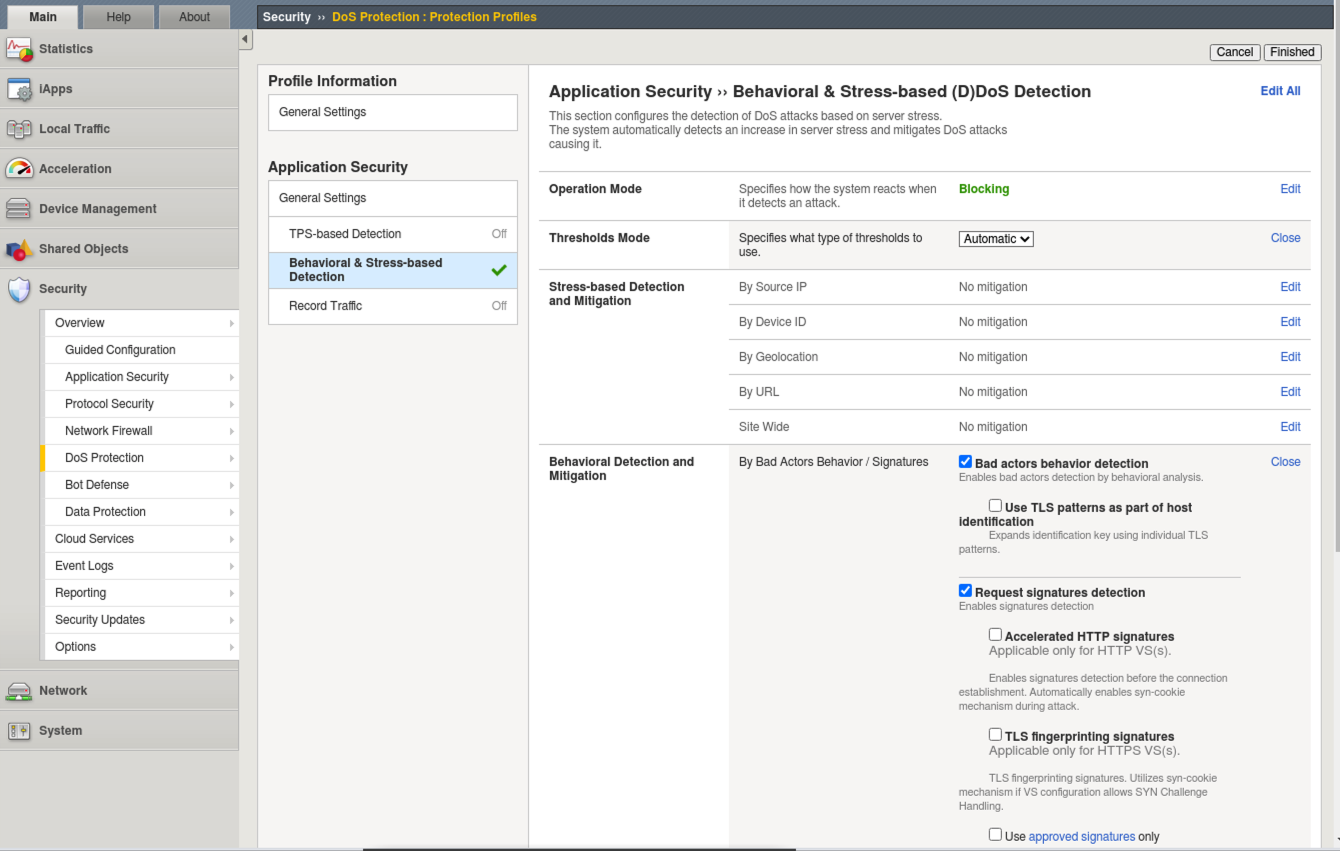
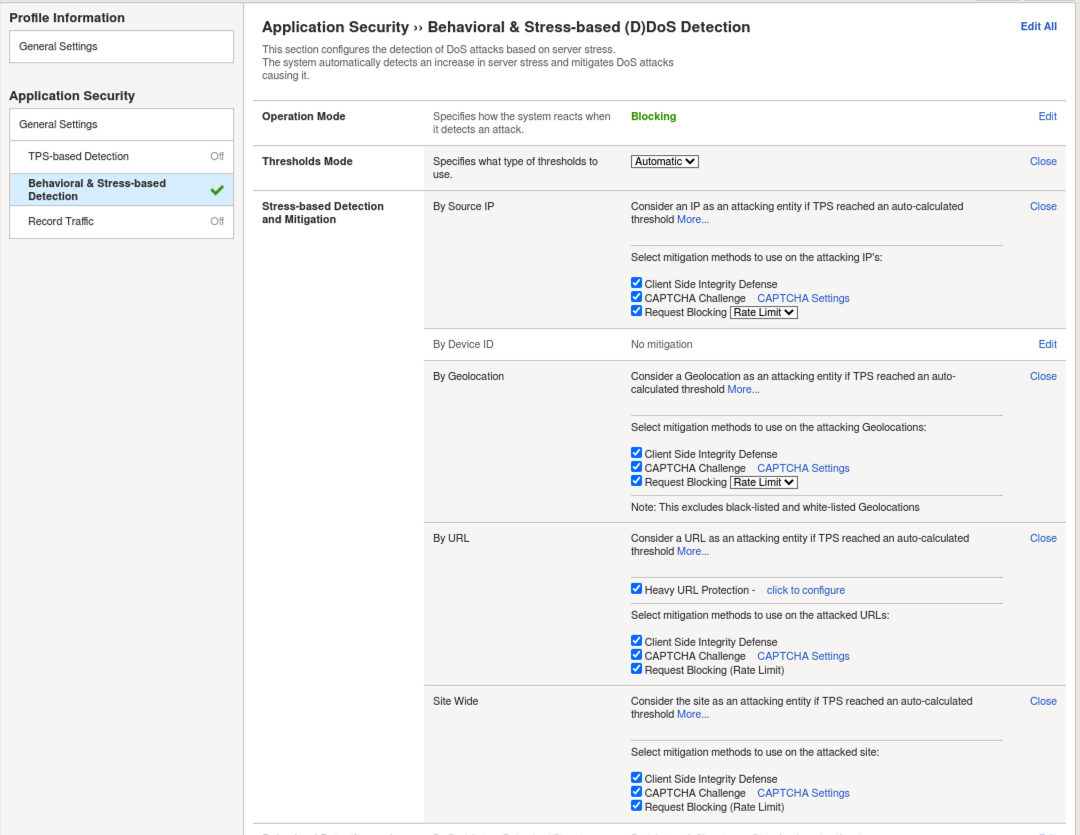
general updates

diff --git a/docs/waf241/module3 - l7 dos/lab1/lab1.rst b/docs/waf241/module3 - l7 dos/lab1/lab1.rst
@@ -1,28 +1,135 @@
 Lab 3: Behavioral DOS Protection
 ----------------------------------
 
-In this lab you will run traffic generation scripts as well as attacks against a Virtual Server in order to trigger Behavioral DoS Protection.
+In this lab you will use a baseline traffic generation script and an Apache Bench based attack script against a Virtual Server in both unprotected and protected mode in order to trigger Behavioral DoS Protection. **Unlimited Behavioral Dos protection profiles are a feature of Advanced WAF**.
 
 
-Create the DoS Profile
-~~~~~~~~~~~~~~~~~~~~~~~
+Test Default Site Behavior
+~~~~~~~~~~~~~~~~~~~~~~~~~~~
+#. Navigate to **Local Traffic > Virtual Servers > owasp-juiceshop_443_vs > Security > Policies**. 
+#. **Disable** all Policies and Logging Profiles so that we can effectively demonstrate just the DoS mitigation.  
+#. Click **Update**.
+
+Your Virtual Server should look like this:
+
+.. image:: images/dos_vs.png
+  :width: 600 px
+
+4. Open a new **Terminal** window and run the **baseline_menu.sh** script in the **Agility2021wafTools** directory.
+
+    .. code-block:: bash
+
+        cd ~/Agility2021wafTools/
+        ./baseline_menu.sh
+    ..
+
+5. Choose **Option 1** and hit the **Return Key or Enter key**. 
+6. You will see the script start sending traffic to site and you should see all responses with an http code of **status: 200**.
+
+.. image:: images/status.png
+  :width: 600 px
+
+7. While the script is still running, open a new browser tab and click on the **OWASP Juice Shop** bookmark. 
+8. Browse around the site and you should not feel any lag in response time. Everything should be loading quickly in the browser even with the baseline script running in the background.
+
+Start the Attack
+~~~~~~~~~~~~~~~~~~~~
+
+#. Open a new **Terminal** tab and ensure you are in the **~/Agility2021wafTools/** directory and run the AB_SSL_DOS.sh script.
+
+    .. code-block:: bash
+
+        cd ~/Agility2021wafTools/
+        ./AB_SSL_DOS.sh
+    ..
+
+2. Choose **Option 1** and hit the **Return Key or Enter key**. 
+3. Back in Chrome browser, attempt to refresh the site. **There are no smoke and mirrors here.** The Apache Bench script almost instantly knocked this single container site offline. If it isn't offline, then it horribly slow and un-usable. **There was no special configuration on the server side.**
+4. Stop the Apache Bench script by hitting (Ctrl + C) and then type the # **4** and hit the **Return Key or Enter key**.
+5. **Leave the baseline_menu script running**. 
+
+**Questions**: What do you do when you are shopping online and a site is behaving like this? Do you think attackers and/or competing entities ever use this to their advantage?
+
+Advanced WAF to the Rescue
+~~~~~~~~~~~~~~~~~~~~~~~~~~~~~
 
 #. Navigate to **Security > DoS Protection > Protection Profiles** and click **Create**.
 #. Name the profile **juiceshop_dos** and click **Behavioral & Stress-based Detection** to the left. 
 #. Configure the **Behavioral & Stress-based Detection** settings like below and click **Finished**.
+ 
+  * Thresholds Mode: **Automatic**
+  
+  * Stress-based Detection and Mitigation: 
+  
+    * By Source IP: **Check all 3 boxes**
+  
+    * By Device ID: **Not Applicable for this lab**
+    
+    * By Geolocation: **Check all 3 boxes**
+    
+    * By URL: **Check all 3 boxes**
+    
+    * Site Wide: **Check all 3 boxes**
+
+  * Behavioral Detection and Mitigation:
+  
+    * **Check** the box for **Use TLS patterns as part of host identification**
+    
+    * **Check** the box for **TLS fingerprinting signatures**
+
+    * Under **Mitigation** read the desciption of **Standard Protection**.
 
 .. image:: images/bdos.png
   :width: 600 px
 
+.. image:: images/bdetect.png
+  :width: 600 px
+
+4. Click **Finished**
+
+.. IMPORTANT:: What you essentially just configured was a a series of traffic categorizers and step-up remediations. Remediations will fire in the order that they are shown in the GUI. First a client side integrity check is performed (JS injection), next a CAPTCHA and finally Rate-Limiting kicks in. 
+
 #. Navigate to **Local Traffic > Virtual Servers > owasp-juiceshop_443_vs > Security > Policies**. 
-#. **Disable** the Application Security Policy for demo purposes only. 
-#. **Enable** the Dos Protection Profile and choose our new **juiceshop_dos** profile and also **Enable** the **local-dos** and remove **Log all requests** Log Profile. 
+#. **Enable** the Dos Protection Profile and choose our new **juiceshop_dos** profile and also **Enable** the **local-dos** Logging Profile. 
 #. Click **Update**.
 
 Your virtual server should look like this: 
 
 .. image:: images/dos.png
   :width: 600 px
+
+8. In Chrome, browse the site and ensure everything is still loading ok. The site should be unaffected by the DoS profile unless there are signs of stress on the server at which time mitigations will kick in.  
+
+9. Open a new **Terminal** tab and start the attack script again:
+
+    .. code-block:: bash
+
+        cd ~/Agility2021wafTools/
+        ./AB_SSL_DOS.sh
+    ..
+
+10. In Chrome, browse the site. Initially, it will appear to be broken again even though we have a Dos Profile applied.
+11. Navigate to **Security > Event Logs > DoS > Application Events** and review the entry. 
+
+screenshot
+
+12. Click on the Attack ID #. 
+
+
+
+
+
+review event Logs and dashboard
+browse site and test response
+3 minutes later the mitigation automatically changes form source ip to url based. 
+review big-ip resources used security > analytics
+
+
+
+
+
+
+
 
 
 Train the DoS Profile
@@ -36,15 +143,10 @@ It should look like this:
 .. image:: images/doslearn.png
   :width: 600 px
   
-3.  With the **admd** command still running, open another tab in your Terminal and run the **baseline_menu.sh** script.
+3.  With the **admd** command still running, 
+run baseline
 
-    .. code-block:: bash
 
-        cd Agility2021wafTools/
-        ./baseline_menu.sh
-    ..
-
-4. Select either **option 1** or **option 2**, but notice that option 3 stops the script.  You will use this later.
 #. Open one more terminal tab and run the script again, but this time select the **other** option.
 
  
